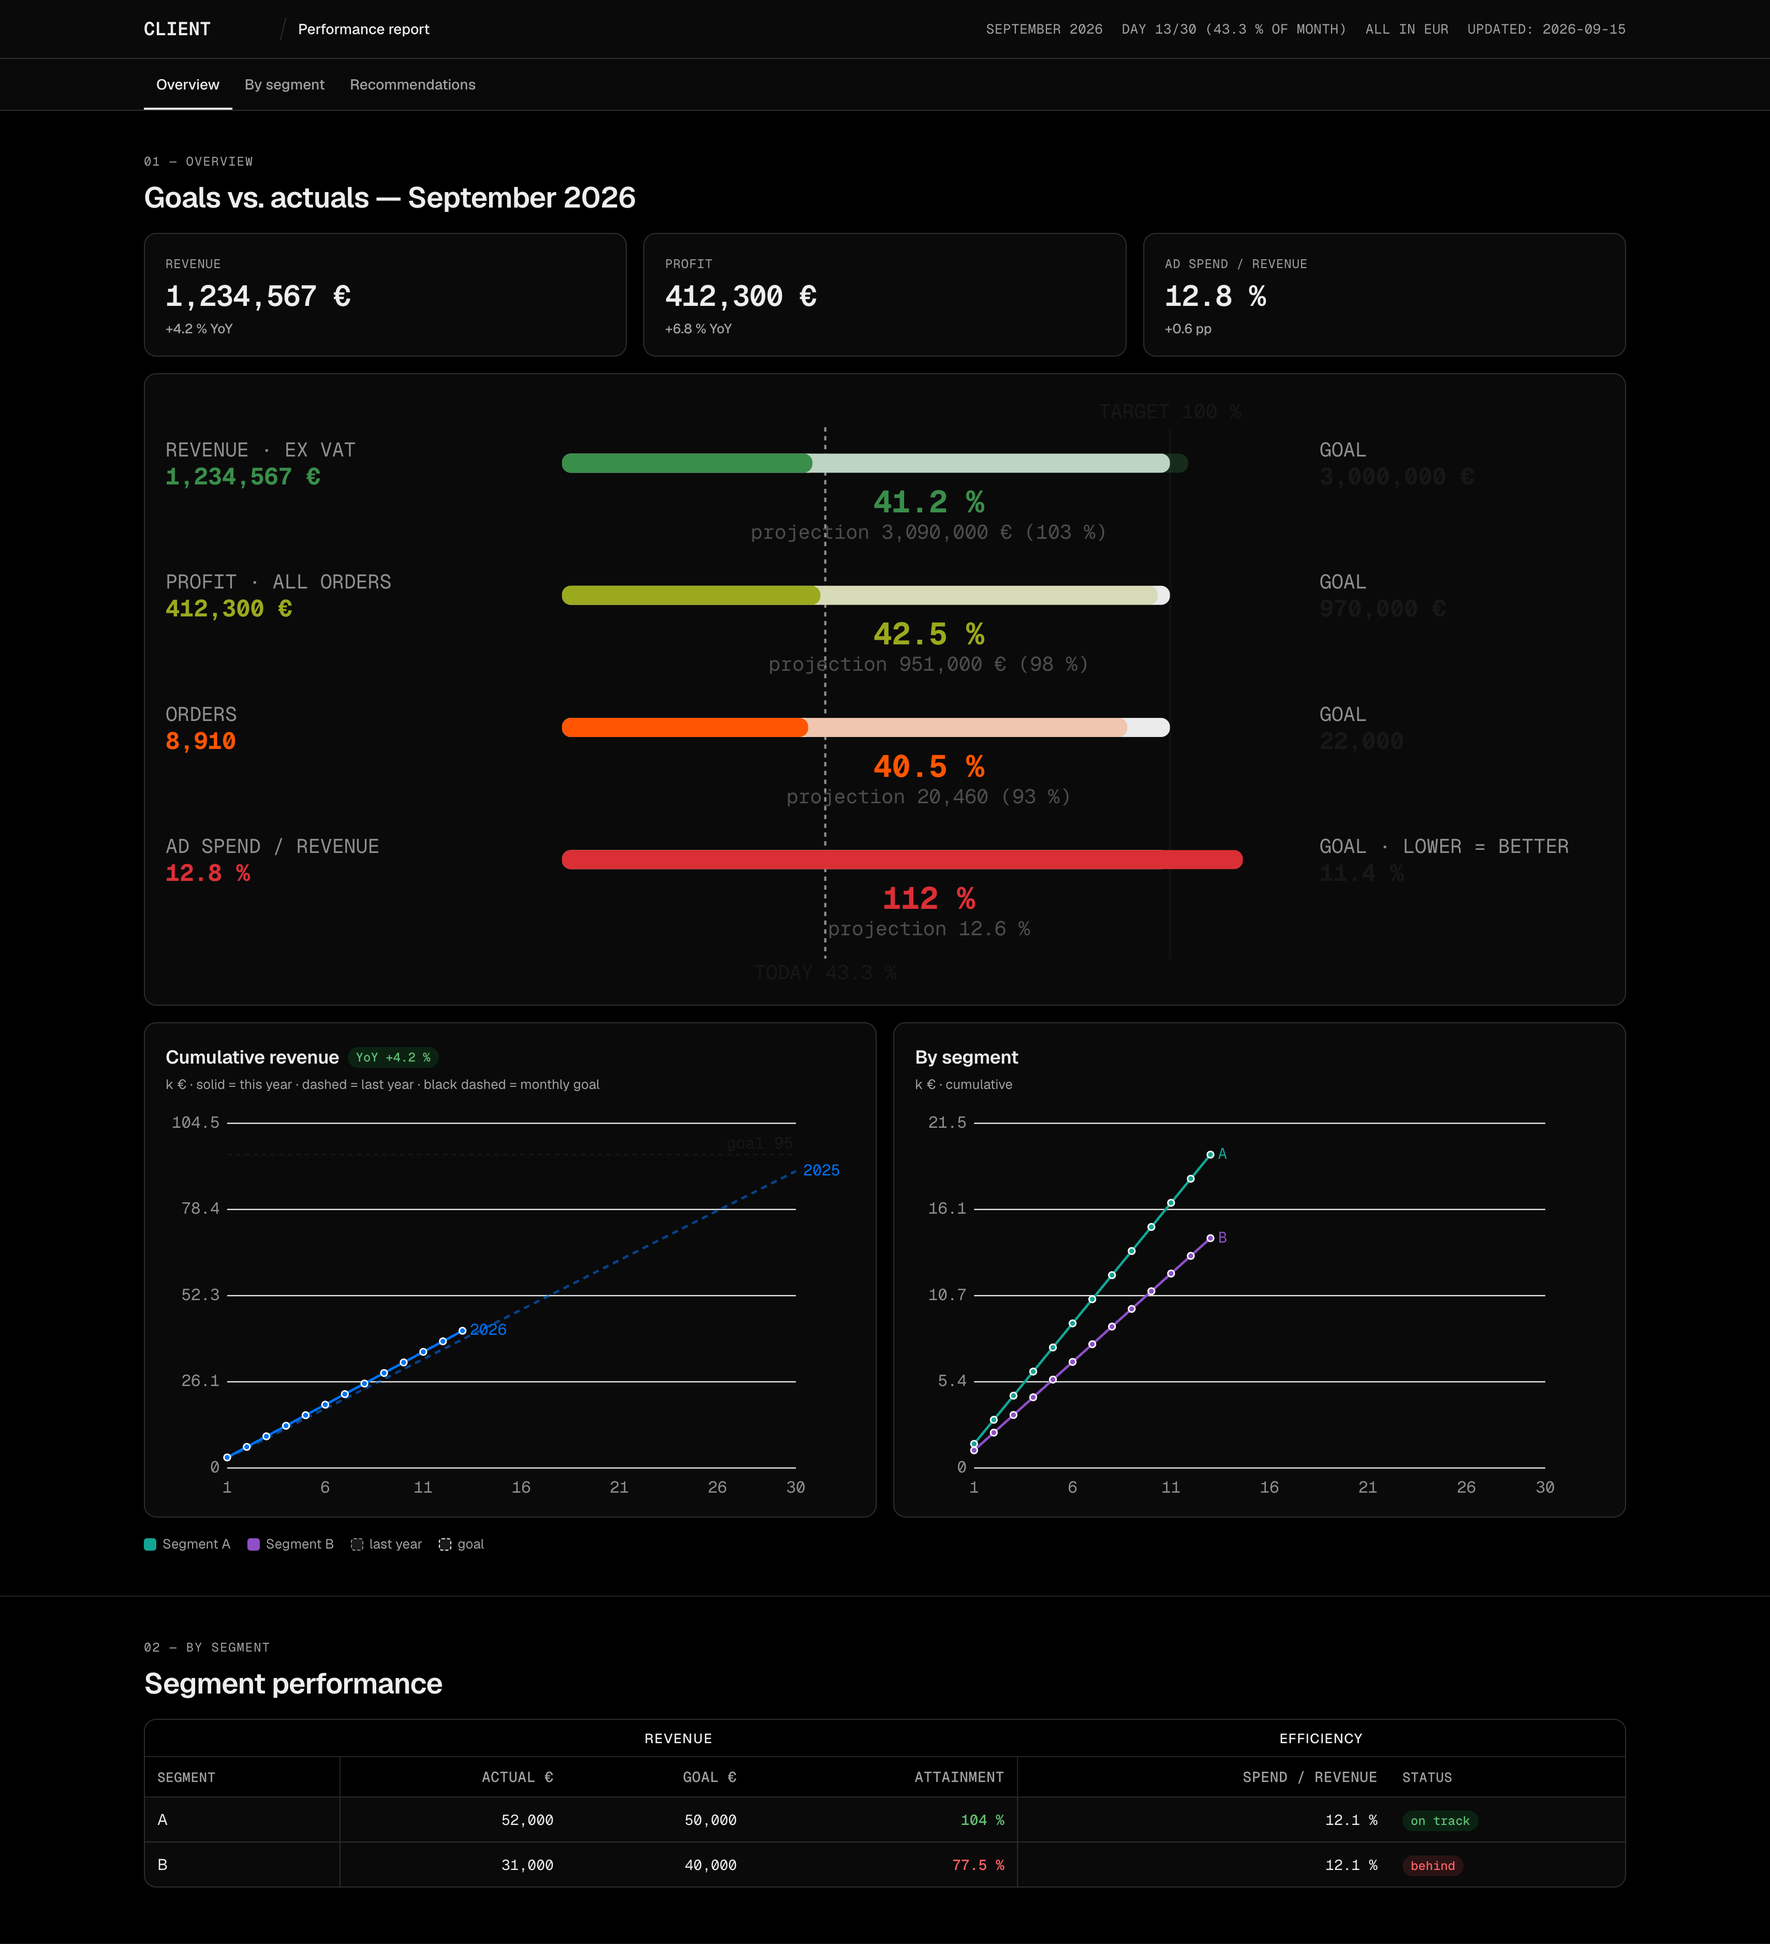
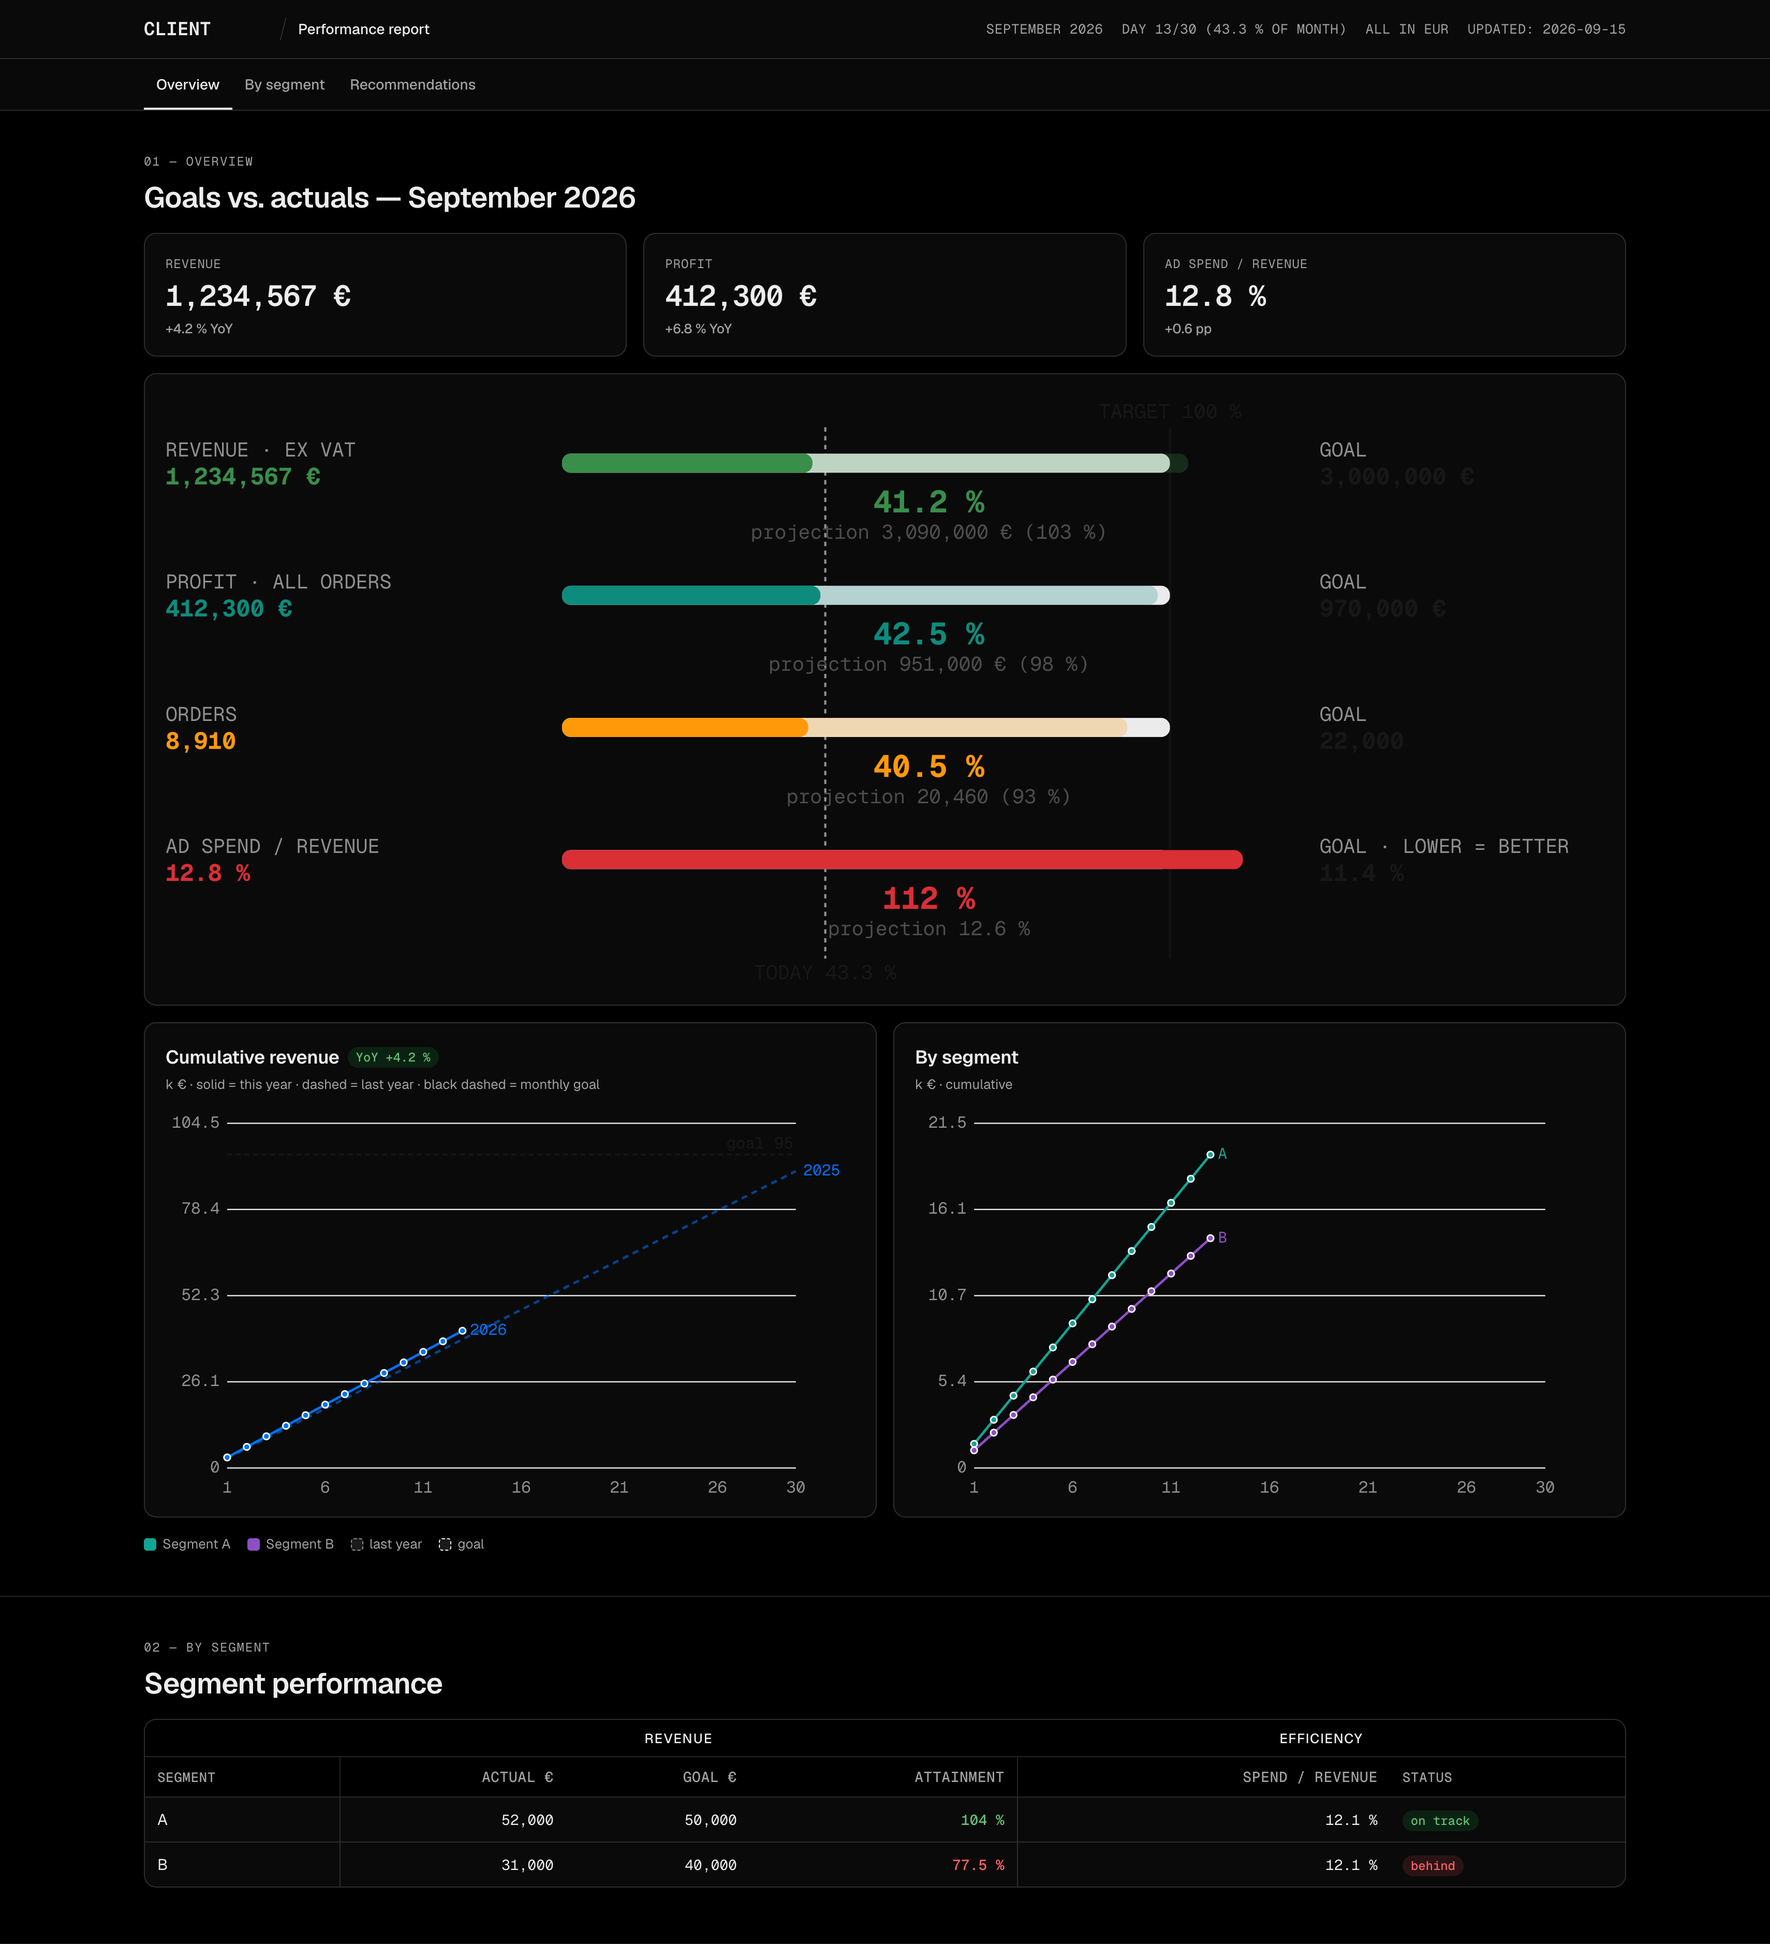
1.0.5: status bands fixed to green-800 / teal-800 / amber-800 / red-800 (Geist tokens); screenshots

diff --git a/dist/ds.esm.js b/dist/ds.esm.js
@@ -5,9 +5,9 @@
 function createMarsUI(){
   const FALLBACK={ 'gray-100':'#f2f2f2','gray-200':'#ebebeb','gray-600':'#a8a8a8','gray-700':'#8f8f8f','gray-900':'#4d4d4d','gray-1000':'#171717',
     'blue-700':'#0070f3','blue-900':'#0068d6','green-800':'#398e4a','green-900':'#297a3a','amber-800':'#ff990a','amber-900':'#a35200',
-    'lime-800':'#a2a91e','lime-900':'#616f0d','orange-800':'#ff5500','orange-900':'#bd460f','red-700':'#e5484d','red-800':'#da3036','red-900':'#cb2a30','teal-700':'#12a594','teal-900':'#067a6e','purple-700':'#8e4ec6','purple-900':'#7820bc','background-100':'#ffffff' };
+    'lime-800':'#a2a91e','lime-900':'#616f0d','orange-800':'#ff5500','orange-900':'#bd460f','red-700':'#e5484d','red-800':'#da3036','red-900':'#cb2a30','teal-700':'#12a594','teal-800':'#0d8c7b','teal-900':'#067a6e','purple-700':'#8e4ec6','purple-900':'#7820bc','background-100':'#ffffff' };
   const token=(name)=>{ try{ const v=getComputedStyle(document.documentElement).getPropertyValue('--mu-'+name).trim(); if(v) return v; }catch(e){} return FALLBACK[name]||'#8f8f8f'; };
-  const status={ ok:()=>token('green-800'), warn3:()=>token('lime-800'), warn10:()=>token('orange-800'), crit:()=>token('red-800'), muted:()=>token('gray-700') };
+  const status={ ok:()=>token('green-800'), warn3:()=>token('teal-800'), warn10:()=>token('amber-800'), crit:()=>token('red-800'), muted:()=>token('gray-700') };
   /** UI labels — English by default; override once per page: MarsUI.setLabels({goal:'cieľ', goal100:'CIEĽ 100 %', …}). */
   const LBL={ goal:'goal', goal100:'TARGET 100 %', today:'TODAY', noData:'No data.', empty:'no data yet',
     pace:{none:'no data',ok:'on track',warn:'slightly behind',crit:'behind'}, yoy:'YoY', yoyNone:'no' };
@@ -24,7 +24,7 @@ function createMarsUI(){
     };
   }
 
-  /** Status color by relative deviation — FIXED RULE: met → ok (green), within 3 % → warn3 (lime, still greenish), within 10 % → warn10 (orange), beyond → crit (red).
+  /** Status color by relative deviation — FIXED RULE: met → ok (green-800), within 3 % → warn3 (teal-800), within 10 % → warn10 (amber-800), beyond → crit (red-800).
       ratio = actual/goal; lowerIsBetter for cost-ratio metrics. */
   function ratioColor(ratio, lowerIsBetter=false){
     if(ratio==null||!isFinite(ratio)) return status.muted();
@@ -117,7 +117,7 @@ function createMarsUI(){
     return badge(labels.crit,'crit');
   }
 
-  return { version:'1.0.4', token, status, labels:LBL, setLabels, ratioColor, formatters, lineChart, bulletChart, table, badge, yoyChip, paceChip };
+  return { version:'1.0.5', token, status, labels:LBL, setLabels, ratioColor, formatters, lineChart, bulletChart, table, badge, yoyChip, paceChip };
 }
 
 const MarsUI=createMarsUI();

diff --git a/dist/ds.js b/dist/ds.js
@@ -6,9 +6,9 @@
 function createMarsUI(){
   const FALLBACK={ 'gray-100':'#f2f2f2','gray-200':'#ebebeb','gray-600':'#a8a8a8','gray-700':'#8f8f8f','gray-900':'#4d4d4d','gray-1000':'#171717',
     'blue-700':'#0070f3','blue-900':'#0068d6','green-800':'#398e4a','green-900':'#297a3a','amber-800':'#ff990a','amber-900':'#a35200',
-    'lime-800':'#a2a91e','lime-900':'#616f0d','orange-800':'#ff5500','orange-900':'#bd460f','red-700':'#e5484d','red-800':'#da3036','red-900':'#cb2a30','teal-700':'#12a594','teal-900':'#067a6e','purple-700':'#8e4ec6','purple-900':'#7820bc','background-100':'#ffffff' };
+    'lime-800':'#a2a91e','lime-900':'#616f0d','orange-800':'#ff5500','orange-900':'#bd460f','red-700':'#e5484d','red-800':'#da3036','red-900':'#cb2a30','teal-700':'#12a594','teal-800':'#0d8c7b','teal-900':'#067a6e','purple-700':'#8e4ec6','purple-900':'#7820bc','background-100':'#ffffff' };
   const token=(name)=>{ try{ const v=getComputedStyle(document.documentElement).getPropertyValue('--mu-'+name).trim(); if(v) return v; }catch(e){} return FALLBACK[name]||'#8f8f8f'; };
-  const status={ ok:()=>token('green-800'), warn3:()=>token('lime-800'), warn10:()=>token('orange-800'), crit:()=>token('red-800'), muted:()=>token('gray-700') };
+  const status={ ok:()=>token('green-800'), warn3:()=>token('teal-800'), warn10:()=>token('amber-800'), crit:()=>token('red-800'), muted:()=>token('gray-700') };
   /** UI labels — English by default; override once per page: MarsUI.setLabels({goal:'cieľ', goal100:'CIEĽ 100 %', …}). */
   const LBL={ goal:'goal', goal100:'TARGET 100 %', today:'TODAY', noData:'No data.', empty:'no data yet',
     pace:{none:'no data',ok:'on track',warn:'slightly behind',crit:'behind'}, yoy:'YoY', yoyNone:'no' };
@@ -25,7 +25,7 @@ function createMarsUI(){
     };
   }
 
-  /** Status color by relative deviation — FIXED RULE: met → ok (green), within 3 % → warn3 (lime, still greenish), within 10 % → warn10 (orange), beyond → crit (red).
+  /** Status color by relative deviation — FIXED RULE: met → ok (green-800), within 3 % → warn3 (teal-800), within 10 % → warn10 (amber-800), beyond → crit (red-800).
       ratio = actual/goal; lowerIsBetter for cost-ratio metrics. */
   function ratioColor(ratio, lowerIsBetter=false){
     if(ratio==null||!isFinite(ratio)) return status.muted();
@@ -118,7 +118,7 @@ function createMarsUI(){
     return badge(labels.crit,'crit');
   }
 
-  return { version:'1.0.4', token, status, labels:LBL, setLabels, ratioColor, formatters, lineChart, bulletChart, table, badge, yoyChip, paceChip };
+  return { version:'1.0.5', token, status, labels:LBL, setLabels, ratioColor, formatters, lineChart, bulletChart, table, badge, yoyChip, paceChip };
 }
 
 return createMarsUI();

diff --git a/src/charts.js b/src/charts.js
@@ -4,9 +4,9 @@
 function createMarsUI(){
   const FALLBACK={ 'gray-100':'#f2f2f2','gray-200':'#ebebeb','gray-600':'#a8a8a8','gray-700':'#8f8f8f','gray-900':'#4d4d4d','gray-1000':'#171717',
     'blue-700':'#0070f3','blue-900':'#0068d6','green-800':'#398e4a','green-900':'#297a3a','amber-800':'#ff990a','amber-900':'#a35200',
-    'lime-800':'#a2a91e','lime-900':'#616f0d','orange-800':'#ff5500','orange-900':'#bd460f','red-700':'#e5484d','red-800':'#da3036','red-900':'#cb2a30','teal-700':'#12a594','teal-900':'#067a6e','purple-700':'#8e4ec6','purple-900':'#7820bc','background-100':'#ffffff' };
+    'lime-800':'#a2a91e','lime-900':'#616f0d','orange-800':'#ff5500','orange-900':'#bd460f','red-700':'#e5484d','red-800':'#da3036','red-900':'#cb2a30','teal-700':'#12a594','teal-800':'#0d8c7b','teal-900':'#067a6e','purple-700':'#8e4ec6','purple-900':'#7820bc','background-100':'#ffffff' };
   const token=(name)=>{ try{ const v=getComputedStyle(document.documentElement).getPropertyValue('--mu-'+name).trim(); if(v) return v; }catch(e){} return FALLBACK[name]||'#8f8f8f'; };
-  const status={ ok:()=>token('green-800'), warn3:()=>token('lime-800'), warn10:()=>token('orange-800'), crit:()=>token('red-800'), muted:()=>token('gray-700') };
+  const status={ ok:()=>token('green-800'), warn3:()=>token('teal-800'), warn10:()=>token('amber-800'), crit:()=>token('red-800'), muted:()=>token('gray-700') };
   /** UI labels — English by default; override once per page: MarsUI.setLabels({goal:'cieľ', goal100:'CIEĽ 100 %', …}). */
   const LBL={ goal:'goal', goal100:'TARGET 100 %', today:'TODAY', noData:'No data.', empty:'no data yet',
     pace:{none:'no data',ok:'on track',warn:'slightly behind',crit:'behind'}, yoy:'YoY', yoyNone:'no' };
@@ -23,7 +23,7 @@ function createMarsUI(){
     };
   }
 
-  /** Status color by relative deviation — FIXED RULE: met → ok (green), within 3 % → warn3 (lime, still greenish), within 10 % → warn10 (orange), beyond → crit (red).
+  /** Status color by relative deviation — FIXED RULE: met → ok (green-800), within 3 % → warn3 (teal-800), within 10 % → warn10 (amber-800), beyond → crit (red-800).
       ratio = actual/goal; lowerIsBetter for cost-ratio metrics. */
   function ratioColor(ratio, lowerIsBetter=false){
     if(ratio==null||!isFinite(ratio)) return status.muted();
@@ -116,5 +116,5 @@ function createMarsUI(){
     return badge(labels.crit,'crit');
   }
 
-  return { version:'1.0.4', token, status, labels:LBL, setLabels, ratioColor, formatters, lineChart, bulletChart, table, badge, yoyChip, paceChip };
+  return { version:'1.0.5', token, status, labels:LBL, setLabels, ratioColor, formatters, lineChart, bulletChart, table, badge, yoyChip, paceChip };
 }

diff --git a/dist/tokens.js b/dist/tokens.js
@@ -404,8 +404,8 @@ export const tokens = {
   "status": {
    "ok": "green-800",
    "ok-text": "green-900",
-   "warn-3": "lime-800",
-   "warn-10": "orange-800",
+   "warn-3": "teal-800",
+   "warn-10": "amber-800",
    "crit": "red-800",
    "crit-text": "red-900",
    "muted": "gray-700"
@@ -435,7 +435,7 @@ export const tokens = {
     "text": "red-900"
    }
   },
-  "status_rule": "FIXED RULE (Marek, 2026-09-09; restored 2026-09-15): met = green-800 · within 3 % = lime-800 (yellow-green, still a shade of green) · within 10 % = orange-800 · beyond 10 % = red-800. Do not change bands or colors without an explicit decision."
+  "status_rule": "FIXED RULE (Marek, 2026-09-15): met = green-800 · within 3 % = teal-800 · within 10 % = amber-800 · beyond 10 % = red-800. Do not change bands or colors without an explicit decision."
  }
 };
 export const light = tokens.color.light;

diff --git a/templates/report.html b/templates/report.html
@@ -62,7 +62,7 @@ if (!['localhost', '127.0.0.1'].includes(location.hostname)) {
 <script>
 // API sample — replace with your data (fetch('data/….json'))
 const UI=window.MarsUI, F=UI.formatters('en-US');
-// four goal rows = the fixed status bands: green = met, lime = within 3 %, orange = within 10 %, red = beyond 10 %
+// four goal rows = the fixed status bands: green = met, teal = within 3 %, amber = within 10 %, red = beyond 10 %
 UI.bulletChart(document.getElementById('bullets'),[
   {label:'REVENUE · EX VAT',val:F.eur(1234567),pct:41.2,ppct:103,big:F.pct(41.2),sub:'projection '+F.eur(3090000)+' ('+F.pct(103)+')',right:'GOAL',rightVal:F.eur(3000000),color:UI.ratioColor(1.03)},
   {label:'PROFIT · ALL ORDERS',val:F.eur(412300),pct:42.5,ppct:98,big:F.pct(42.5),sub:'projection '+F.eur(951000)+' ('+F.pct(98)+')',right:'GOAL',rightVal:F.eur(970000),color:UI.ratioColor(0.98)},

diff --git a/DESIGN_SYSTEM.md b/DESIGN_SYSTEM.md
@@ -25,7 +25,7 @@ Start from `templates/report.html` (topbar + tabs + sections + chart examples) a
 |---|---|---|
 | backgrounds | `--mu-background-100` (cards, topbar), `--mu-background-200` (page) | 100 = surface, 200 = canvas |
 | gray | `--mu-gray-100…1000`, `--mu-gray-alpha-100…1000` | 100–300 component backgrounds (default/hover/active), 400–600 borders (`gray-alpha-400` = the standard 1 px border), 700–800 high-contrast fills and chart axes, 900 secondary text, 1000 primary text |
-| accents | `blue`, `red`, `amber`, `orange`, `lime`, `green`, `teal`, `purple`, `pink` × 100–1000 | 100 badge background, 700–800 lines/bars/buttons, 900 badge text and colored numbers. `orange` and `lime` are mars-ui additions (Geist has neither): they exist for the status bands below |
+| accents | `blue`, `red`, `amber`, `orange`, `lime`, `green`, `teal`, `purple`, `pink` × 100–1000 | 100 badge background, 700–800 lines/bars/buttons, 900 badge text and colored numbers. `orange` and `lime` are mars-ui additions (Geist has neither), available as extra accents; status bands use Geist tokens only |
 | effects | `--mu-shadow-small/medium/large/tooltip/menu/modal`, `--mu-focus-ring` | shadows only on floating elements (menus, modals); cards have none |
 | radius | `--mu-radius-sm` 6 px (buttons, inputs, text badges), `--mu-radius-md` 12 px (cards, tables), `--mu-radius-lg` 16 px, `--mu-radius-full` (pills) | |
 | fonts | `--mu-font-sans` Geist, `--mu-font-mono` Geist Mono | mono = numbers in tables, chart axes, meta rows, badges, code |
@@ -57,13 +57,13 @@ Rules: headings are always Geist Sans, never serif. Numbers compared in a column
 - `lineChart(el, labels, series, opts)` — series `{label,color,values,dash,opacity,width,nodots}`; `opts.goal` draws a black dashed goal line, `opts.yfmt/tfmt` formatters, `opts.xstep`, `opts.wide`. The left margin adapts to the widest axis label.
 - Conventions: **this year solid**, **last year same color dashed `5 4` at opacity .55** (.35 in multi-entity comparisons), **monthly goal black dashed**, **linear path to goal gray dotted `2 4`** (gray-600, width 1). Company-wide series = `blue-700`. Grid `gray-200`, axes `gray-700`.
 - `bulletChart(el, rows, {progress})` — each row: label + value on the left, bar to goal (100 % = vertical black line), big percentage and projection in the middle, target on the right; `progress` draws "TODAY x %".
-- **Status bands — fixed rule** (`ratioColor`, `status`). A small miss is still a shade of green; only from 3 % on it turns warm:
+- **Status bands — fixed rule** (`ratioColor`, `status`). A small miss stays cool (teal); from 3 % on it turns warm:
 
   | deviation from goal (worse direction) | token | color |
   |---|---|---|
   | met (≤ 0 %) | `green-800` | green |
-  | within 3 % | `lime-800` | yellow-green |
-  | within 10 % | `orange-800` | orange |
+  | within 3 % | `teal-800` | teal |
+  | within 10 % | `amber-800` | amber |
   | beyond 10 % | `red-800` | red |
   | no data | `gray-700` | gray |
 

diff --git a/CHANGELOG.md b/CHANGELOG.md
@@ -1,5 +1,9 @@
 # Changelog
 
+## 1.0.5 — 2026-09-15
+
+- Status bands set as the fixed rule: met green-800 · within 3 % teal-800 · within 10 % amber-800 · beyond red-800 (all Geist tokens). `lime`/`orange` stay as optional accents.
+
 ## 1.0.4 — 2026-09-15
 
 - New `lime` scale. Status bands restored to the original rule: met green-800 · within 3 % lime-800 (yellow-green) · within 10 % orange-800 · beyond red-800. Documented as a fixed rule.
